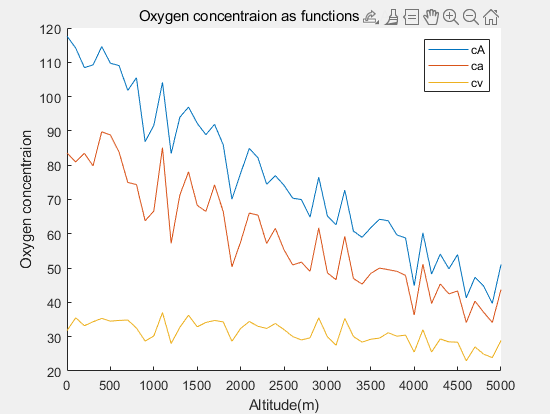
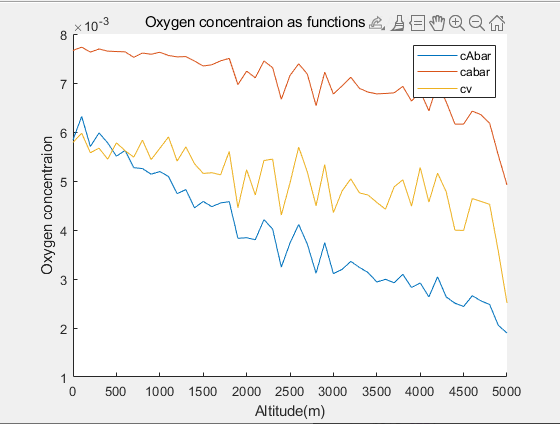
Task6 Final Version update

diff --git a/Final Version/Task6/task6.m b/Final Version/Task6/task6.m
@@ -30,13 +30,13 @@ end
     setup_lung
     cvsolve
     outchecklung
-    [~, PAbar, Pabar, Pv] = lung(0.5);
-    [~, cA, ca, cv] = lung(0.5);
+    [~, PAbar, Pabar, Pv] = lung();
+    [~, cAbar, cabar, cv] = clung();
     Pabar_values(i) = Pabar;
     PAbar_values(i) = PAbar;
     Pv_values(i) = Pv;
-    ca_values(i) = ca;
-    cA_values(i) = cA;
+    ca_values(i) = cabar;
+    cA_values(i) = cAbar;
     cv_values(i) = cv;
 end
 
@@ -53,8 +53,8 @@ hold off;
 
 figure;
 hold on;
-plot(altitudes, cA_values, 'DisplayName', 'cA');
-plot(altitudes, ca_values, 'DisplayName', 'ca');
+plot(altitudes, cA_values, 'DisplayName', 'cAbar');
+plot(altitudes, ca_values, 'DisplayName', 'cabar');
 plot(altitudes, cv_values, 'DisplayName', 'cv');
 xlabel('Altitude(m)');
 ylabel('Oxygen concentraion');

diff --git a/Final Version/Task6/clung.m b/Final Version/Task6/clung.m
@@ -1,0 +1,14 @@
+function [cI, cAbar, cabar, cv] = clung(beta)
+    global Pstar cstar n maxcount M Q camax RT cI;
+setup_lung
+
+a1=-log(rand(n,1));
+a2=-log(rand(n,1));
+av=(a1+a2)/2;        
+VA=VAbar*(a1*beta+av*(1-beta));
+Q = Qbar*(a2*beta+av*(1-beta));
+r=VA./Q;
+
+cvsolve
+outchecklung
+end
